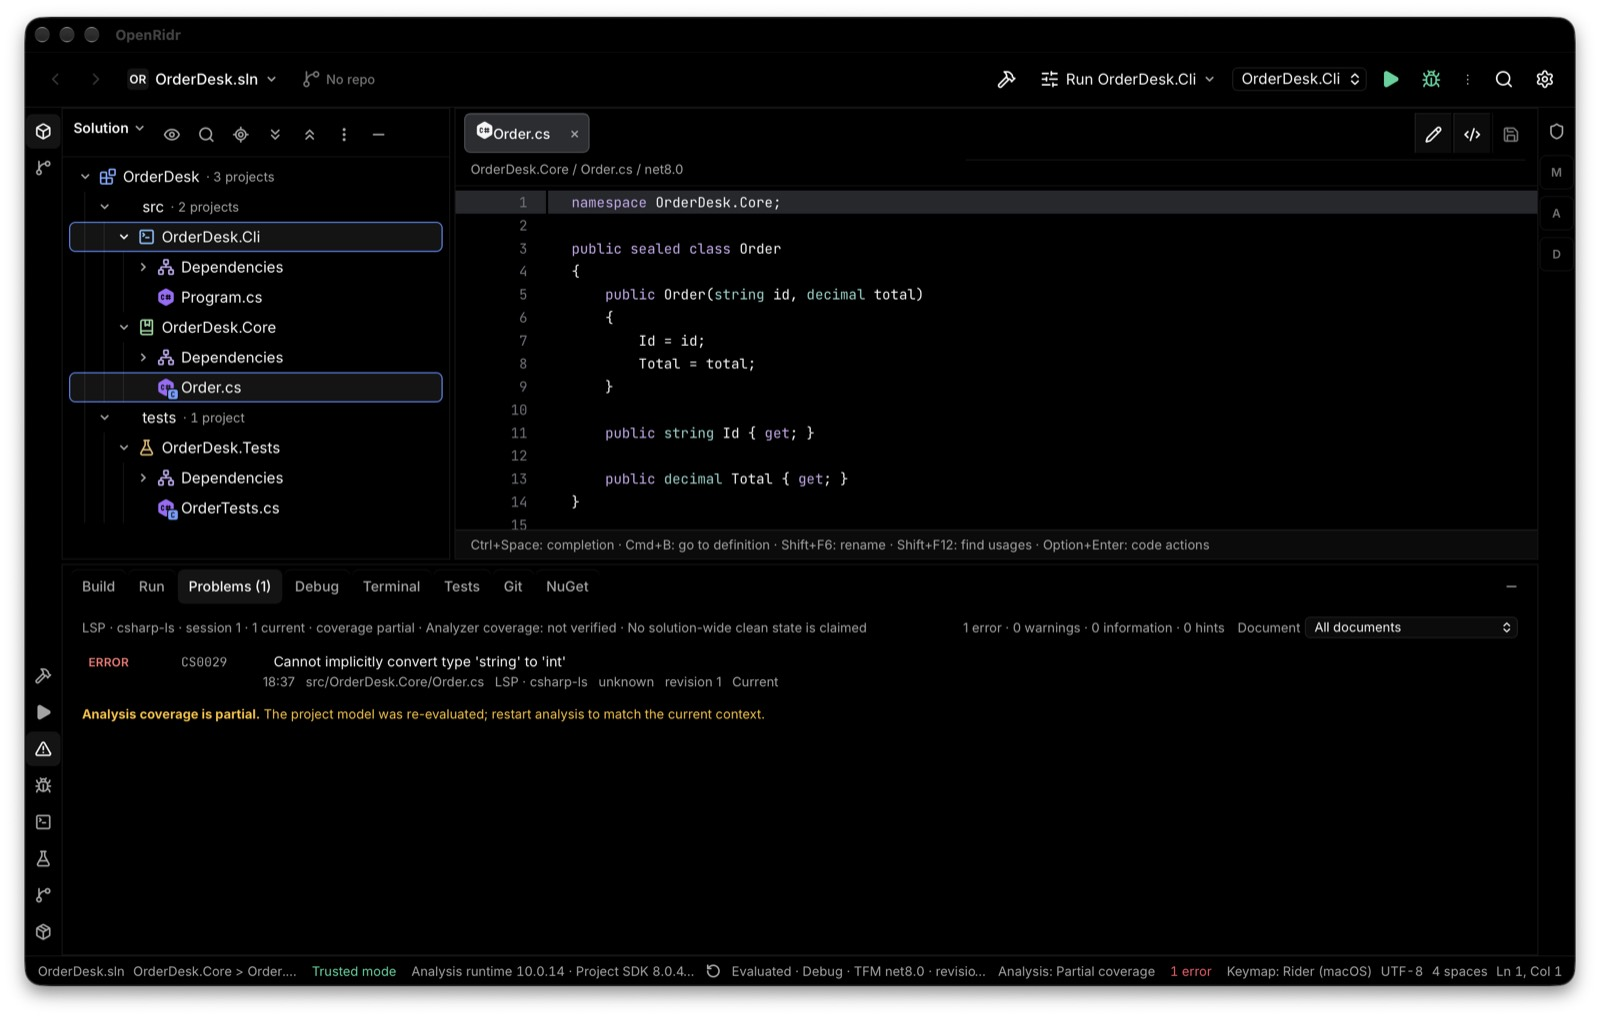
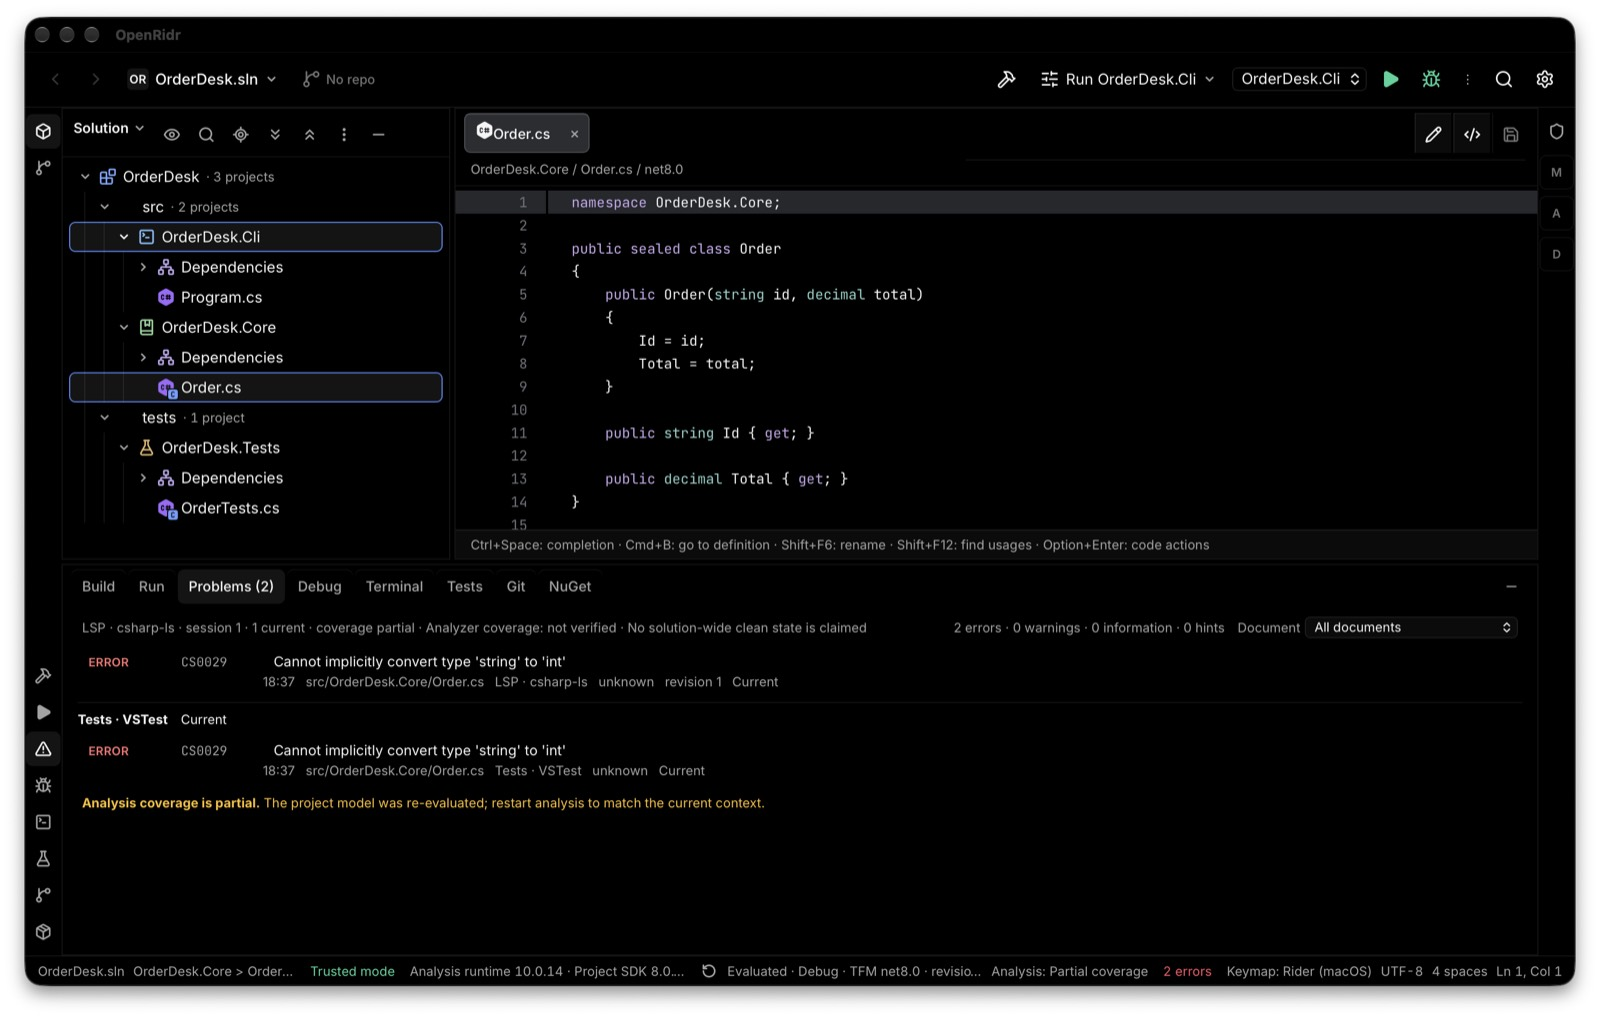
docs(analysis): record the final DMG bytes and the read-only re-proof
The DMG rebuilt from the committed tree is 61.774.338 bytes; the read-only proof
was repeated on that artifact (Problems shows the LSP CS0029 and the test
discovery error, app home still without tools/).

diff --git a/docs/RELEASE-ALPHA.md b/docs/RELEASE-ALPHA.md
@@ -4,7 +4,7 @@
 > `csharp-ls` 0.28.0 e o runtime .NET 10.0.14 que ele executa vêm **dentro** do app/DMG. Setup e
 > reabertura não baixam a análise nem exigem runtime .NET 10 instalado; o SDK do projeto continua
 > sendo o que o `global.json` pede, detectado na máquina (o app nunca instala SDK). O DMG de teste
-> mediu 61.774.547 bytes (58,91 MiB). O texto abaixo descreve a alpha.8 **publicada**, cujo setup
+> mediu 61.774.338 bytes (58,91 MiB). O texto abaixo descreve a alpha.8 **publicada**, cujo setup
 > ainda baixava o csharp-ls (~99 MB) e exigia o runtime externo.
 
 Oitava alfa instalável. IDE C#/.NET inspirada no Rider (Tauri 2 + Rust + React/TS), tema escuro.

diff --git a/docs/evidence/bundled-analysis.md b/docs/evidence/bundled-analysis.md
@@ -124,7 +124,7 @@ HFS+), assinatura ad-hoc (`signingIdentity: "-"`), sem notarização.
 | Item | Alpha.8 (baseline) | Esta build | Delta |
 |---|---:|---:|---:|
 | `.app` release | 24,25 MiB | **163,29 MiB** | +139,04 MiB |
-| DMG | 10.699.101 B (10,20 MiB) | **61.774.547 B (58,91 MiB)** | **+51.075.446 B (+51,0 MiB, ~5,8×)** |
+| DMG | 10.699.101 B (10,20 MiB) | **61.774.338 B (58,91 MiB)** | **+51.075.237 B (+51,0 MiB, ~5,8×)** |
 | `Contents/Resources/dotnet` | — | 83 MiB | — |
 | `Contents/Resources/csharp-ls` | — | 57 MiB | — |
 

diff --git a/docs/RETRO-BUNDLED-ANALYSIS.md b/docs/RETRO-BUNDLED-ANALYSIS.md
@@ -8,7 +8,7 @@ Onda: 2026-11-05, branch `feat/bundled-analysis-runtime` (base `eb3fe6f`, alpha.
 
 - 3 tickets, 1 commit de implementação + docs. 55 MB de artefatos baixados no build (não
   versionados), 140 MB extraídos no `.app`.
-- `.app` 24,25 → **163,29 MiB**; DMG 10.699.101 → **61.774.547 bytes** (+51,0 MiB, ~5,8×).
+- `.app` 24,25 → **163,29 MiB**; DMG 10.699.101 → **61.774.338 bytes** (+51,0 MiB, ~5,8×).
 - Testes: 400 no host (266 + 4 + 14 + 98 + 10 + 7 + 1), todos verdes; nenhum teste novo lento.
 
 ## O que funcionou
